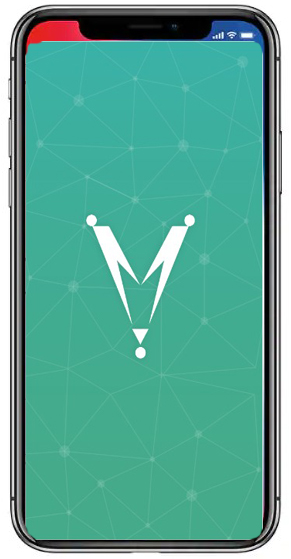
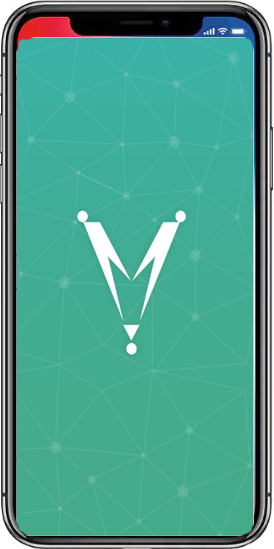
updates

diff --git a/assets/demo/demo.css b/assets/demo/demo.css
@@ -1075,13 +1075,13 @@
                   .section-features .features .illustration {
                     background-position: center; }
                     .section-features .features .illustration.timer {
-                      background-image: url("../img/1.jpg");
+                      background-image: url("../img/10image.png");
                       background-repeat: no-repeat;
                       background-size: 140px auto;
                       -webkit-background-size: 140px auto; }
                       @media print, (-o-min-device-pixel-ratio: 5 / 4), (-webkit-min-device-pixel-ratio: 1.25), (min-resolution: 120dpi), (min-resolution: 2dppx) {
                         .section-features .features .illustration.timer {
-                          background-image: url("../img/1.jpg"); } }
+                          background-image: url("../img/10image.png"); } }
                     .section-features .features .illustration.location {
                       background-image: url("../img/map-pin-area-multiple-512.png");
                       background-repeat: no-repeat;
